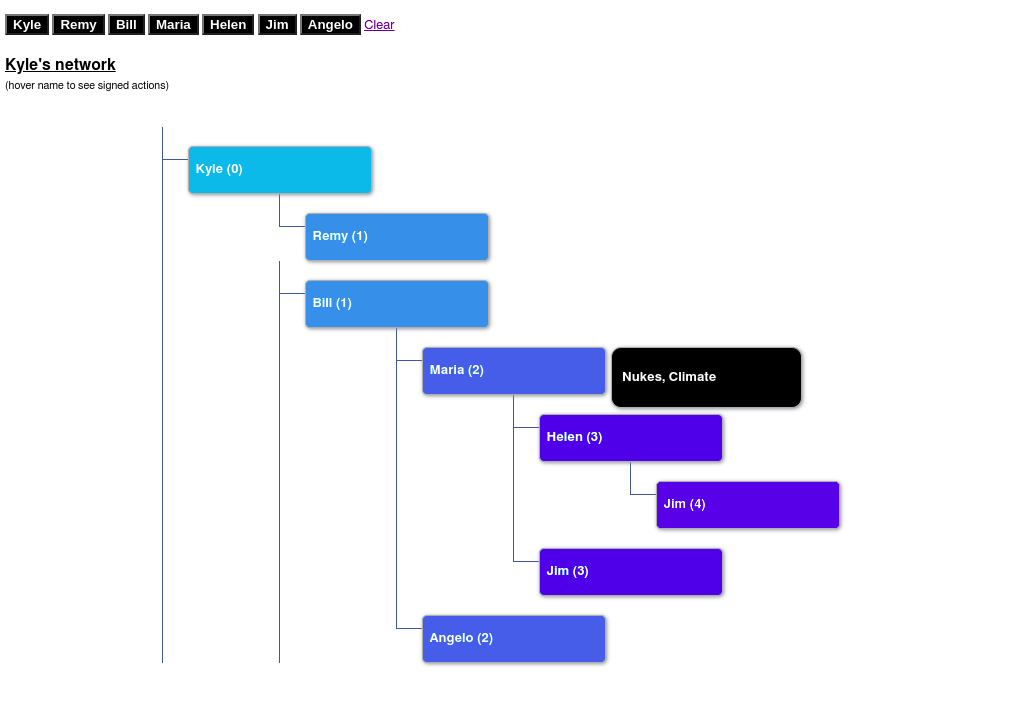
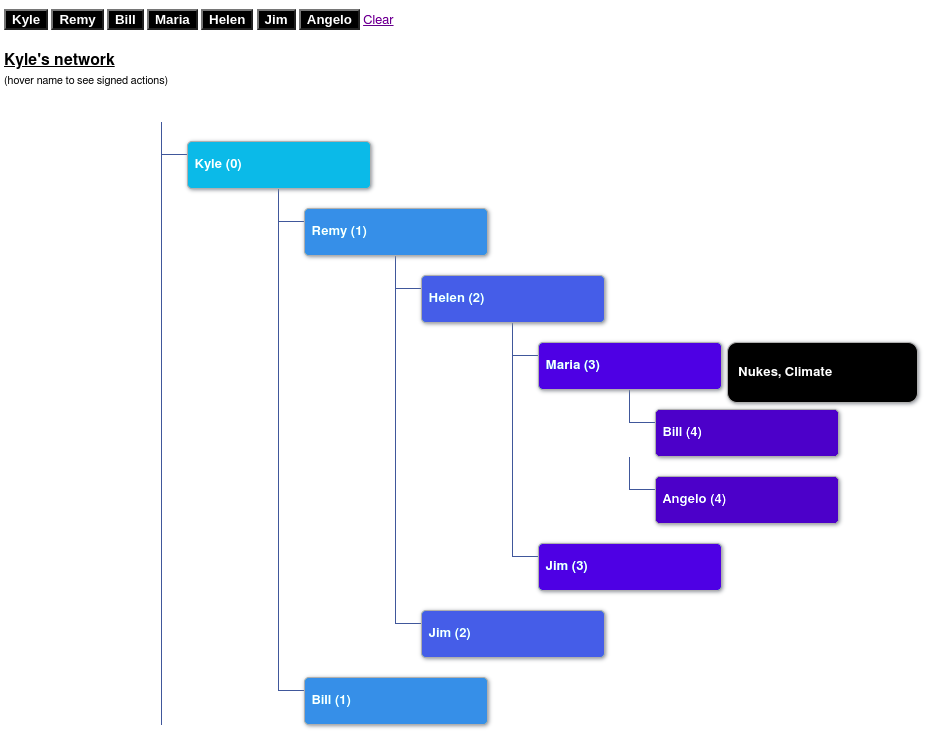
Check if node is already added in sub-tree before adding it. Update data, example screenshot and Readme file.

Changed region(s): [[0.1549, 0.1836, 0.9915, 1.0], [0.0, 0.0, 0.4338, 0.1224]]

diff --git a/assets/styles/style.css b/assets/styles/style.css
@@ -3,9 +3,10 @@
 #depth0 {background-color: #06bfe5; color: white}
 #depth1 {background-color: #09a1e5; color: white}
 #depth2 {background-color: #0283e5; color: white}
-#depth3 {background-color: #0062e5; color: white}
-#depth4 {background-color: #002ee5; color: white}
-#depth5 {background-color: #0024be; color: white}   /* We could use Sass here to have variable selectors and variable color values */
+#depth3 {background-color: #0061e1; color: white}
+#depth4 {background-color: #012ac7; color: white}
+#depth5 {background-color: #011c93; color: white}
+#depth6 {background-color: #001a7a; color: white}   /* We could use Sass here to have variable selectors and variable color values */
 
 .activist-btn {
     background: black;

diff --git a/models/Network.php b/models/Network.php
@@ -43,7 +43,7 @@ abstract class Network
      * @param string $fileName
      * @return void
      */
-    public function init($activistName, $fileName)
+    public function init($activistName, $fileName): void
     {
         $this->readData($fileName);
     }
@@ -53,7 +53,7 @@ abstract class Network
      *
      * @throws \Exception
      */
-    protected function validate($node)
+    protected function validate($node): void
     {
         if (!$node instanceof Node) {
             throw new \Exception('Invalid node.');
@@ -88,7 +88,7 @@ abstract class Network
      * @param Node $parent
      * @param Node $child
      */
-    public function setChild($parent, $child)
+    public function setChild($parent, $child): void
     {
         if ($parent) {
             $parent->setChild($child);
@@ -99,7 +99,7 @@ abstract class Network
      * @param Node $child
      * @param Node $parent
      */
-    public function setParent($child, $parent)
+    public function setParent($child, $parent): void
     {
         if ($child) {
             $child->setParent($parent);
@@ -107,11 +107,21 @@ abstract class Network
     }
 
     /**
+     * @param Node $node
+     *
+     * @return bool
+     */
+    public function contains($node): bool
+    {
+        return isset($this->hashTable[$node->getId()]);
+    }
+
+    /**
      * Read data from file (json, csv)
      *
      * @param string $fileName
      */
-    protected function readData(string $fileName)
+    protected function readData(string $fileName): void
     {
         $extension = pathinfo($fileName, PATHINFO_EXTENSION);
         if ($extension === 'json') {

diff --git a/models/ActivistNetwork.php b/models/ActivistNetwork.php
@@ -19,7 +19,7 @@ class ActivistNetwork extends Network
     /**
      * {@inheritDoc}
      */
-    public function init($activistName, $fileName)
+    public function init($activistName, $fileName): void
     {
         parent::init($activistName, $fileName);
         $this->createActions($this->data['actions']);
@@ -33,7 +33,7 @@ class ActivistNetwork extends Network
     /**
      * {@inheritDoc}
      */
-    protected function validate($activist)
+    protected function validate($activist): void
     {
         if (!$activist instanceof Activist) {
             throw new \Exception('Click on an existing activist\'s name to view his/her network.');
@@ -108,8 +108,8 @@ class ActivistNetwork extends Network
 
             foreach ($signedActivists as $signedActivist) {
                 if (
-                    $activist->getId() !== $signedActivist->getId()     //Skip self
-                    && !$activist->isParentOf($signedActivist)          //Skip already added child
+                    $activist->getId() !== $signedActivist->getId()   //Skip self
+                    && !$this->contains($signedActivist)              //Skip if signedActivist already exists in subtree
                 ) {
                     $this->addChild($signedActivist, $activist);
                 }
@@ -149,7 +149,7 @@ class ActivistNetwork extends Network
 
         #The first time we start with the root activist
         if (!$activist) {
-			echo '<ul class="tree">';
+            echo '<ul class="tree">';
             if (!$this->root) {
                 return;
             }

diff --git a/models/Node.php b/models/Node.php
@@ -30,7 +30,7 @@ class Node
     /**
      * @param Node $parent
      */
-    public function setParent(Node $parent)
+    public function setParent(Node $parent): void
     {
         $this->parent = $parent;
     }
@@ -46,7 +46,7 @@ class Node
     /**
      * @param Node $child
      */
-    public function setChild(Node $child)
+    public function setChild(Node $child): void
     {
         if (!empty($child)) {
             $this->children[$child->id] = $child;
@@ -59,6 +59,7 @@ class Node
      */
     public function isParentOf(Node $child): bool
     {
+		//TODO - check if this is correct
         return isset($this->children[$child->id]);
     }
 

diff --git a/README.md b/README.md
@@ -20,7 +20,7 @@ Implementation
 We will implement this by using a HashTable.
 The HashTable has the activist name as key and the activist object as node.
 Each node has parent node (except for the root node) and possibly children nodes.
-Tested with php 7.3.33
+Tested with php 7.3.33 and 8.1.5
 
 Notes
 ---------------------------
